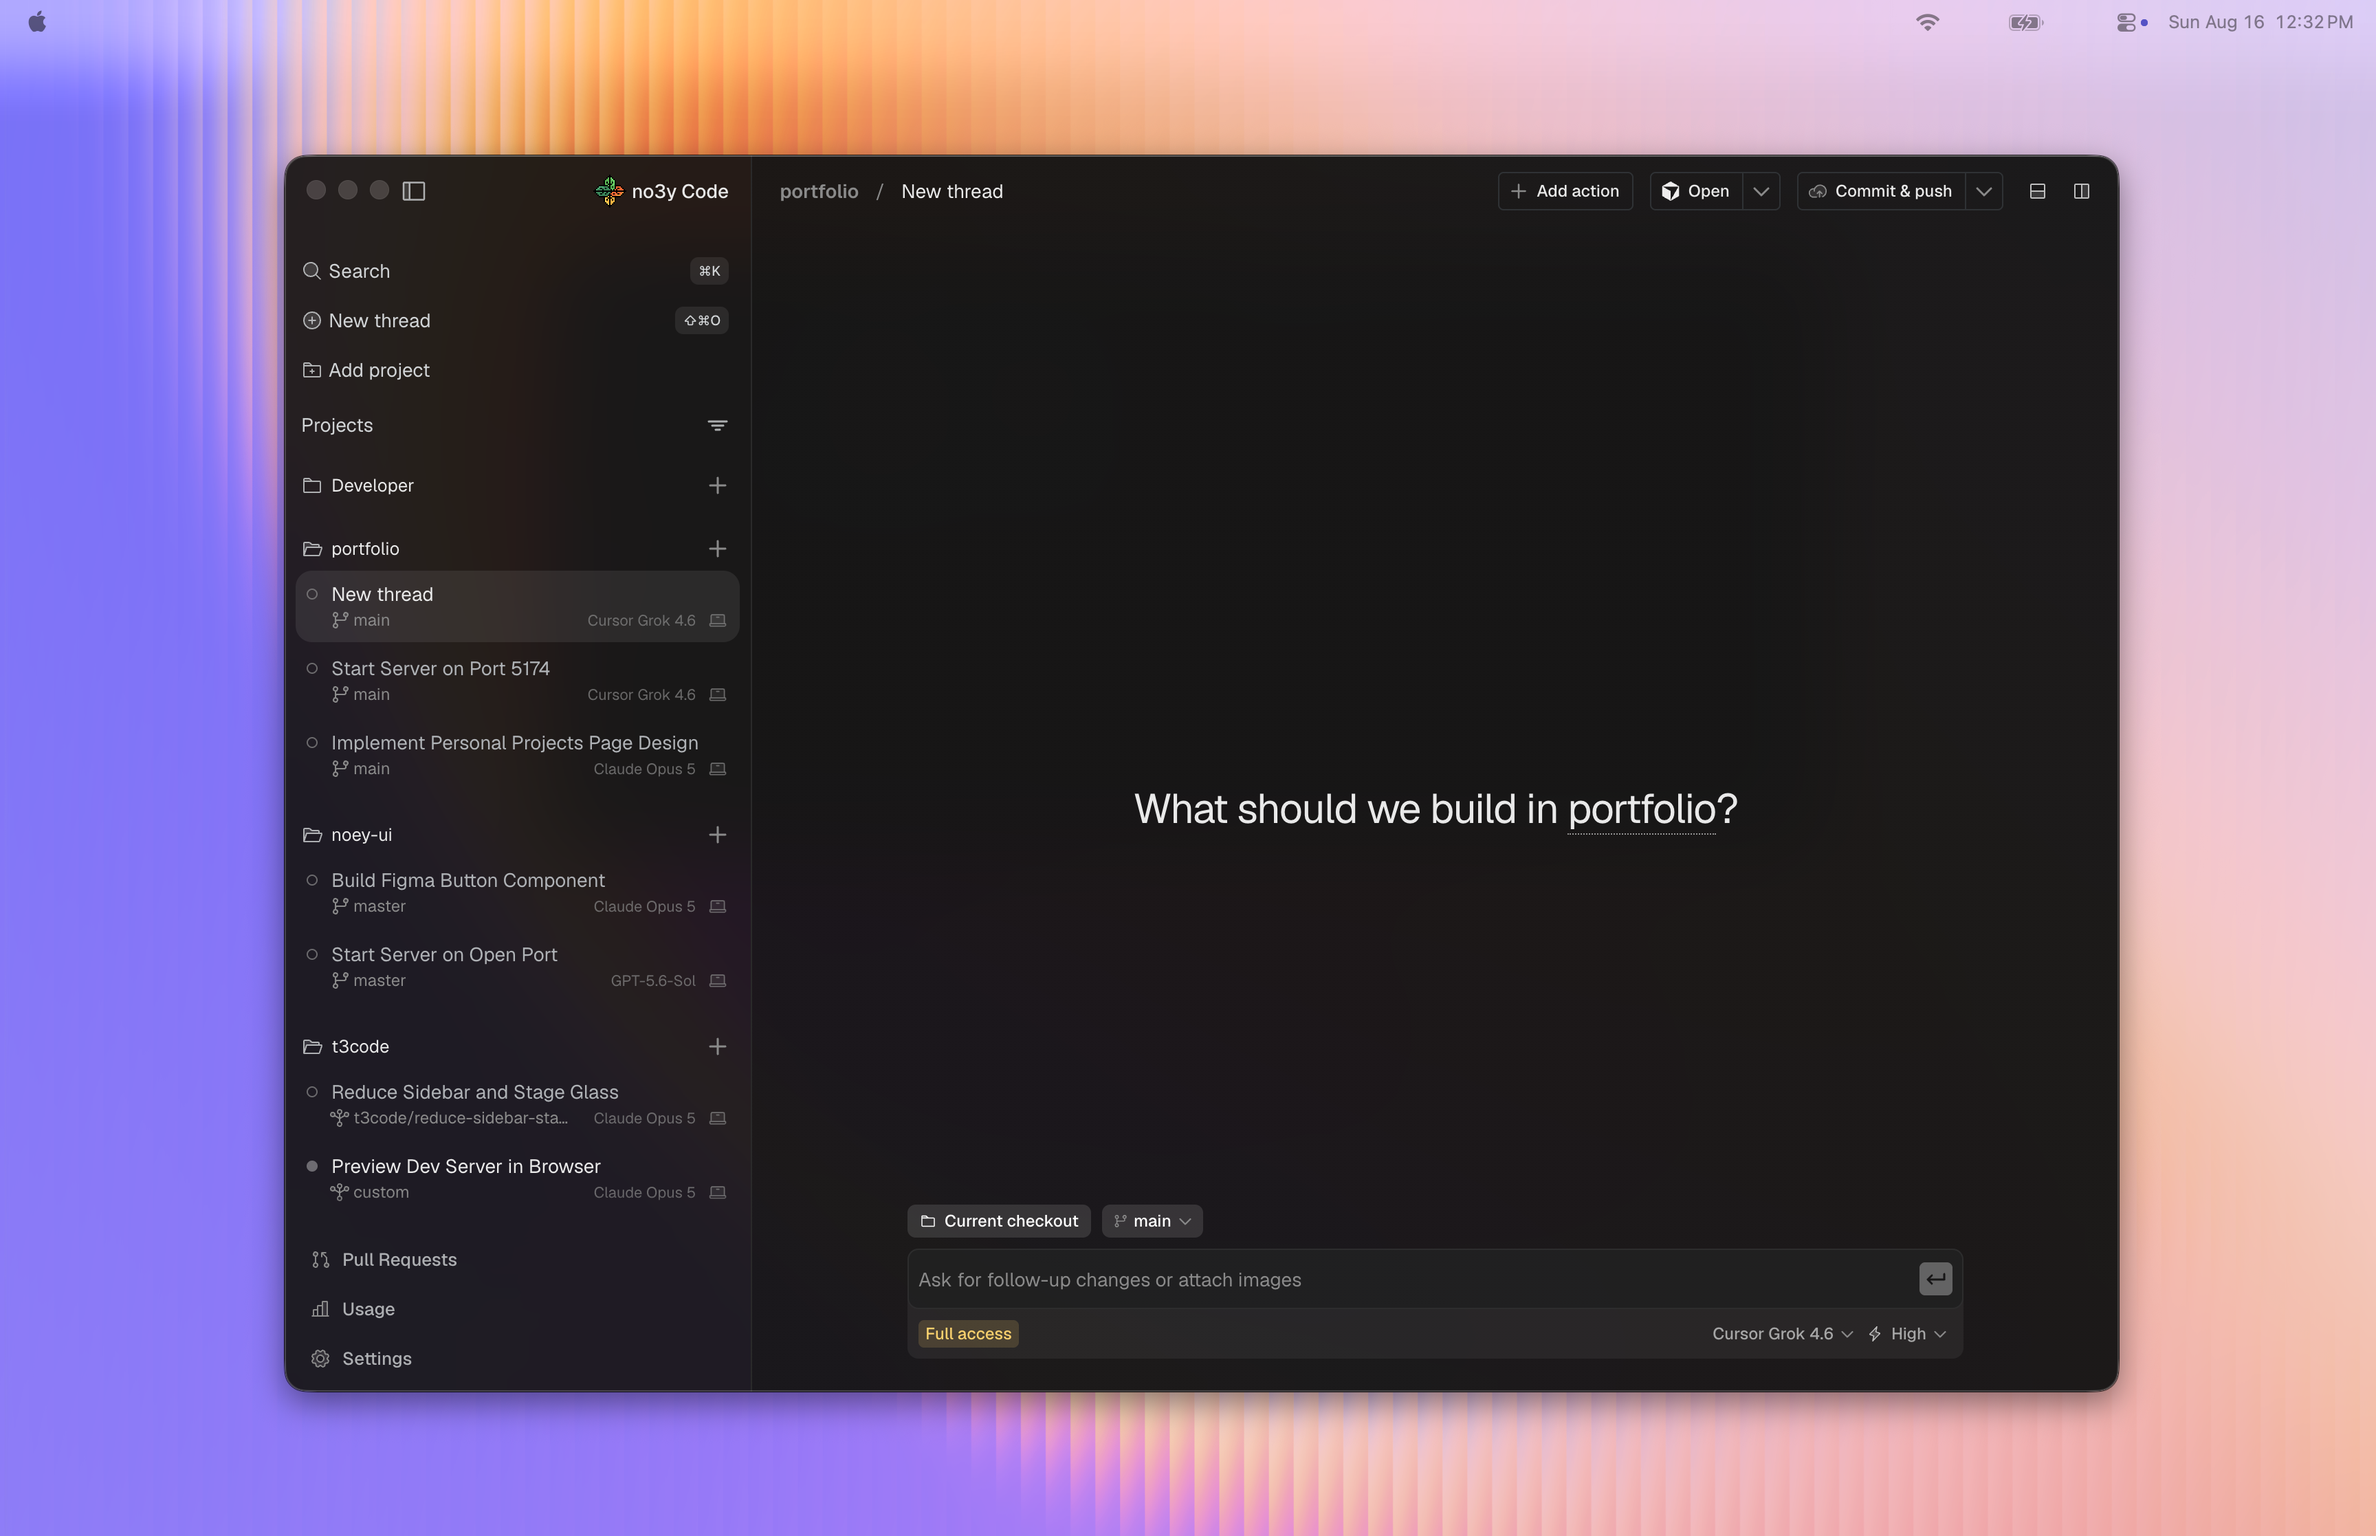
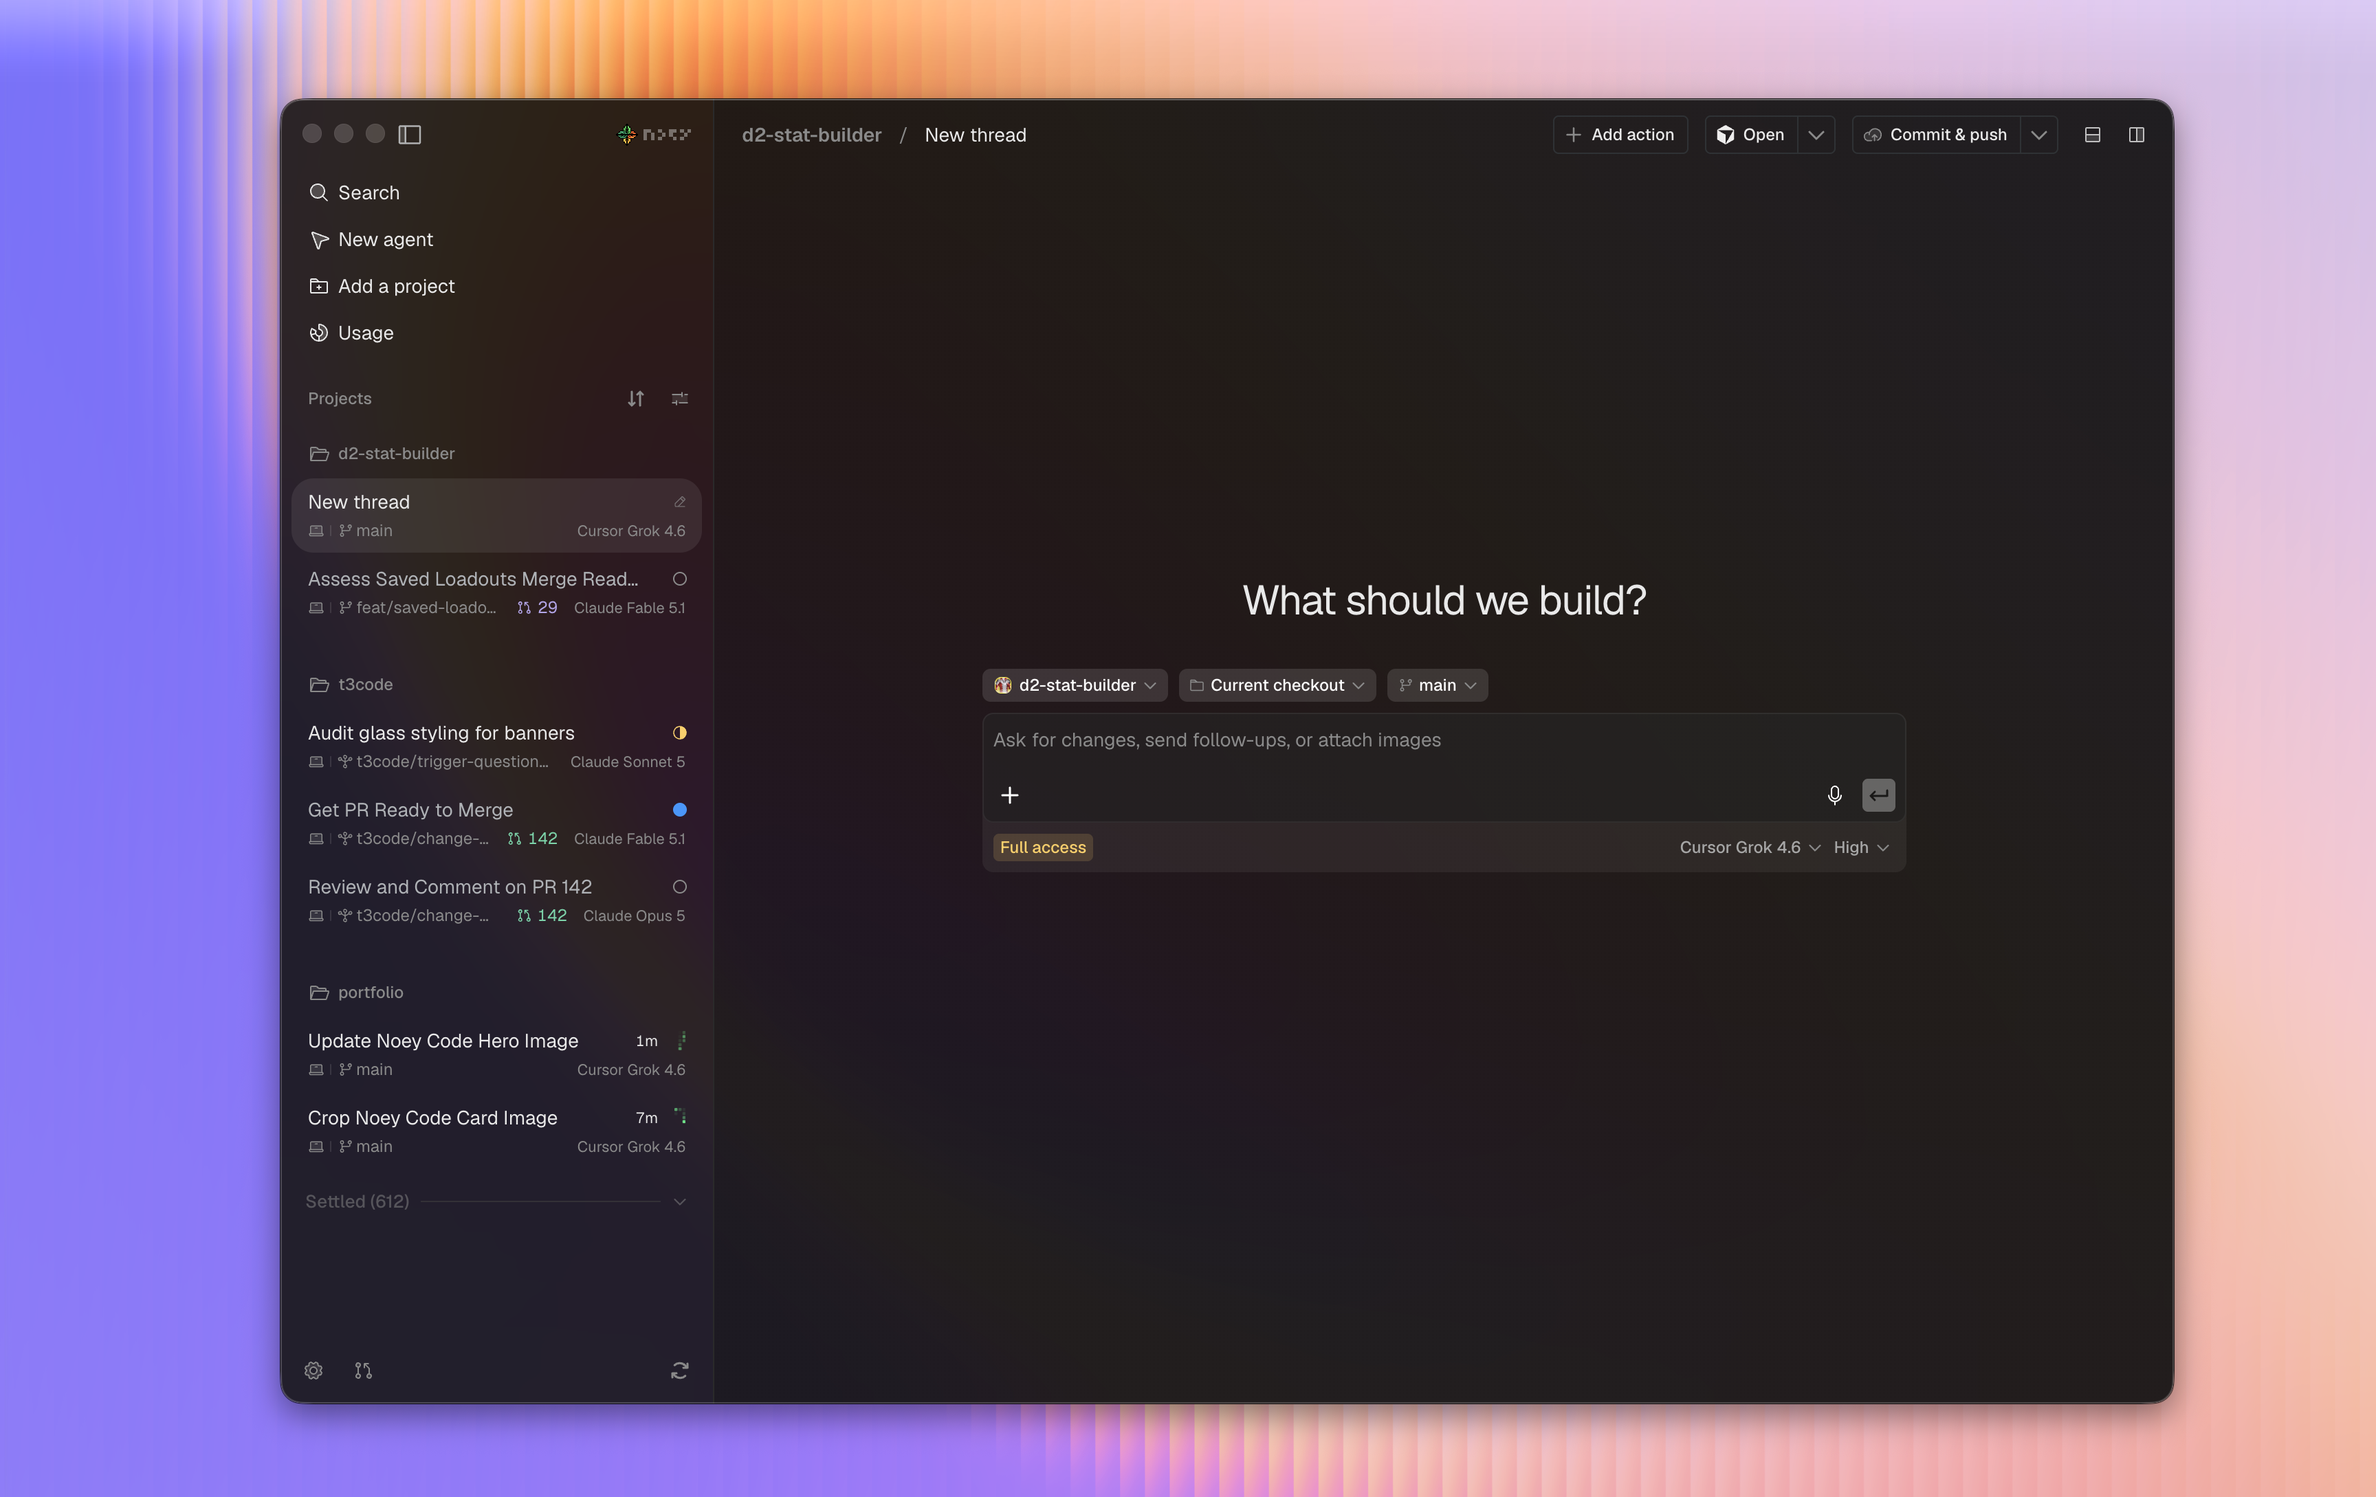
Refresh the no3y Code story shots with current captures.

diff --git a/src/data/projects.ts b/src/data/projects.ts
@@ -768,8 +768,8 @@ export const projects: Record<string, Project> = {
         cta: { label: 'GitHub', href: NO3Y_CODE_DOWNLOAD, gradient: true },
         shot: {
           src: '/work/no3y-code/hero.png',
-          alt: 'no3y Code on the desktop — a new portfolio thread asking what we should build',
-          aspect: '1728 / 1117',
+          alt: 'no3y Code on the desktop — a new thread asking what we should build',
+          aspect: '1728 / 1089',
           frame: 'plain',
         },
         shotWidth: 1272,
@@ -808,7 +808,7 @@ export const projects: Record<string, Project> = {
           shot: {
             src: '/work/no3y-code/idea.png',
             alt: 'no3y Code’s thread sidebar beside the design mode properties panel, over a fluted gradient',
-            aspect: '1272 / 464',
+            aspect: '3090 / 1499',
             frame: 'plain',
           },
         },
@@ -818,12 +818,11 @@ export const projects: Record<string, Project> = {
           heading: 'Thread cards',
           body: 'A single line didn’t provide enough context. While multitasking across projects and models, I needed to see each thread’s project, branch, and model immediately. T3 Code provided a strong foundation, and I designed the interface around that information.',
           copyWidth: 700,
-          panelWidth: 789,
           stack: true,
           shot: {
-            src: '/work/no3y-code/sidebar.png',
-            alt: 'Thread card v2 — status, prompt, branch and model across default, hover and selected states',
-            aspect: '789 / 422',
+            src: '/work/no3y-code/sidebar.jpg',
+            alt: 'Thread sidebar beside a board of thread card states — default, hover, selected, and status variants',
+            aspect: '4703 / 3048',
             frame: 'plain',
           },
         },
